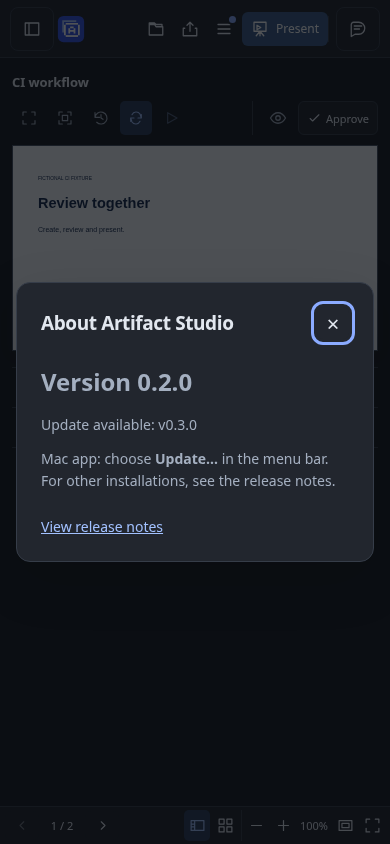
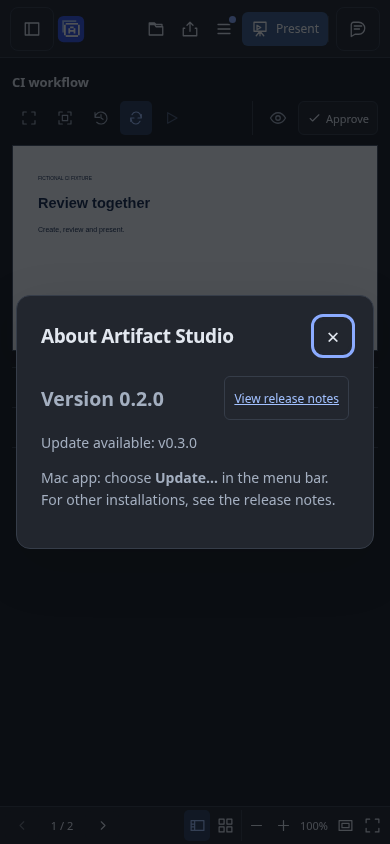
fix(ui): keep update actions beside the installed version

Changed region(s): [[0.0308, 0.3081, 0.9538, 0.6777], [0.5846, 0.4621, 0.8615, 0.4929]]

diff --git a/macos/ArtifactStudio.swift b/macos/ArtifactStudio.swift
@@ -137,7 +137,6 @@ final class AppDelegate: NSObject, NSApplicationDelegate, NSMenuDelegate {
     private var navigationUpdated = Date.distantPast
     private var navigationEnabled = false
     private let status = NSMenuItem(title: "", action: nil, keyEquivalent: "")
-    private let versionItem = NSMenuItem(title: "", action: nil, keyEquivalent: "")
     private let startItem = NSMenuItem(title: "Start", action: #selector(start), keyEquivalent: "")
     private let stopItem = NSMenuItem(title: "Stop", action: #selector(stop), keyEquivalent: "")
     private let restartItem = NSMenuItem(title: "Restart", action: #selector(restart), keyEquivalent: "")
@@ -188,8 +187,9 @@ final class AppDelegate: NSObject, NSApplicationDelegate, NSMenuDelegate {
         backupItem.submenu = backupMenu
         status.isEnabled = false
         menu.addItem(status)
-        versionItem.isEnabled = false
-        menu.addItem(versionItem)
+        updateItem.target = self
+        updateItem.image = NSImage(systemSymbolName: "arrow.down.circle", accessibilityDescription: nil)
+        menu.addItem(updateItem)
         menu.addItem(.separator())
         add("Open Artifact Studio", symbol: "arrow.up.right.square", action: #selector(openWorkspace), key: "o")
         for (item, symbol) in [(startItem, "play.fill"), (stopItem, "stop.fill"), (restartItem, "arrow.clockwise")] {
@@ -197,9 +197,6 @@ final class AppDelegate: NSObject, NSApplicationDelegate, NSMenuDelegate {
             item.image = NSImage(systemSymbolName: symbol, accessibilityDescription: nil)
             menu.addItem(item)
         }
-        updateItem.target = self
-        updateItem.image = NSImage(systemSymbolName: "arrow.down.circle", accessibilityDescription: nil)
-        menu.addItem(updateItem)
         menu.addItem(.separator())
         let settings = NSMenuItem(title: "Settings", action: nil, keyEquivalent: "")
         settings.image = NSImage(systemSymbolName: "gearshape", accessibilityDescription: nil)
@@ -241,9 +238,6 @@ final class AppDelegate: NSObject, NSApplicationDelegate, NSMenuDelegate {
     private func updateMenu() {
         status.title = updating ? updateLabel : external ? "Running · started elsewhere" : state.rawValue
         status.toolTip = errorMessage.isEmpty ? workspaceURL.absoluteString : errorMessage
-        versionItem.title = "Version \(installedVersion)"
-        versionItem.toolTip = "Installed version: \(installedVersion)"
-        versionItem.image = newerVersion == nil ? nil : NSImage(systemSymbolName: "arrow.down.circle.fill", accessibilityDescription: "Update available")
         statusItem.button?.toolTip = "Artifact Studio · \(status.title)"
         statusItem.button?.setAccessibilityValue(status.title)
         statusItem.button?.image = menuBarImage(state: updating ? .starting : state)
@@ -258,7 +252,9 @@ final class AppDelegate: NSObject, NSApplicationDelegate, NSMenuDelegate {
         startItem.isHidden = hasServer
         stopItem.isHidden = !hasServer
         updateItem.isEnabled = !updating && state != .starting && state != .stopping
-        updateItem.title = updating ? updateLabel : newerVersion.map { "Update… (v\($0) available)" } ?? "Update…"
+        let updateAction = updating ? updateLabel : newerVersion.map { "Update… (v\($0) available)" } ?? "Update…"
+        updateItem.title = "Version \(installedVersion)    \(updateAction)"
+        updateItem.toolTip = "Installed version: \(installedVersion). \(updateAction)"
         updateItem.image = NSImage(systemSymbolName: newerVersion == nil ? "arrow.down.circle" : "arrow.down.circle.fill", accessibilityDescription: newerVersion == nil ? nil : "Update available")
         let login = SMAppService.mainApp.status
         loginItem.state = login == .enabled ? .on : login == .requiresApproval ? .mixed : .off

diff --git a/web/app-version.js b/web/app-version.js
@@ -5,7 +5,7 @@
   function start(){
     const entries=[...doc.querySelectorAll('[data-app-about]')];if(!entries.length)return;
     const dialog=doc.createElement('dialog');dialog.className='app-about';dialog.setAttribute('aria-labelledby','app-about-title');
-    dialog.innerHTML='<header><h2 id="app-about-title">About Artifact Studio</h2><button type="button" aria-label="Close">×</button></header><p class="app-about-version" data-installed-version>Version unavailable</p><p class="app-about-status" role="status" aria-live="polite">Checking for updates…</p><p data-update-help hidden>Mac app: choose <strong>Update…</strong> in the menu bar. For other installations, see the release notes.</p><a class="app-release-link" target="_blank" rel="noopener noreferrer" hidden>View release notes</a>';
+    dialog.innerHTML='<header><h2 id="app-about-title">About Artifact Studio</h2><button type="button" aria-label="Close">×</button></header><div class="app-version-row"><p class="app-about-version" data-installed-version>Version unavailable</p><a class="app-release-link" target="_blank" rel="noopener noreferrer" hidden>View release notes</a></div><p class="app-about-status" role="status" aria-live="polite">Checking for updates…</p><p data-update-help hidden>Mac app: choose <strong>Update…</strong> in the menu bar. For other installations, see the release notes.</p>';
     doc.body.append(dialog);
     const version=dialog.querySelector('[data-installed-version]'),status=dialog.querySelector('[role="status"]'),release=dialog.querySelector('a'),help=dialog.querySelector('[data-update-help]');
     const triggers=[doc.getElementById('workspace-menu-button'),doc.getElementById('hub-tools-button')].filter(Boolean);

diff --git a/web/app-version.css b/web/app-version.css
@@ -10,8 +10,11 @@ dialog.app-about::backdrop{background:#10182866}
 .app-about h2{margin:0;font-size:19px;line-height:1.4}
 .app-about header button{font-size:22px;line-height:1;padding:5px 9px;min-width:32px;border:0;background:transparent;color:inherit}
 .app-about p{margin:12px 0;line-height:1.6;font-size:14px}
-.app-about .app-about-version{font-size:24px;font-weight:600}
+.app-version-row{display:flex;align-items:center;justify-content:space-between;gap:12px}
+.app-about .app-about-version{margin:0;font-size:clamp(16px,5vw,24px);font-weight:600;white-space:nowrap}
 .app-about .app-about-status{color:var(--hub-muted,var(--subtle,#5f6b7a))}
-.app-about a{display:inline-block;margin-top:12px;color:var(--hub-blue,var(--link,#315fce));font-size:14px}
+.app-about a{display:inline-flex;align-items:center;justify-content:center;padding:7px 9px;border:1px solid var(--hub-line,var(--line,#d8deea));border-radius:6px;color:var(--hub-blue,var(--link,#315fce));font-size:12px;white-space:nowrap;flex-shrink:0}
+@media(max-width:360px){dialog.app-about{padding:18px}.app-version-row{gap:8px}.app-about a{padding:7px 8px;font-size:11px}}
 .app-about [hidden]{display:none!important}
+@media(max-width:600px){.app-about .app-release-link{min-height:44px}}
 .app-version-sr{position:absolute;width:1px;height:1px;padding:0;margin:-1px;overflow:hidden;clip-path:inset(50%);white-space:nowrap;border:0}

diff --git a/tests/integration/test_app_version.py b/tests/integration/test_app_version.py
@@ -23,6 +23,7 @@ pytestmark = [
         ("hub", "light", 1280, 800),
         ("hub", "dark", 1280, 800),
         ("hub", "dark", 390, 844),
+        ("hub", "light", 320, 700),
         ("editor", "light", 1280, 800),
         ("editor", "dark", 390, 844),
     ],
@@ -62,6 +63,21 @@ def test_installed_version_and_update_menu(
     expect(dialog.get_by_role("link", name="View release notes")).to_have_attribute(
         "href", "https://github.com/kaiketsu-labs/artifact-studio/releases/tag/v9.0.0"
     )
+    version_bounds = dialog.locator("[data-installed-version]").bounding_box()
+    update_bounds = dialog.get_by_role("link", name="View release notes").bounding_box()
+    assert version_bounds and update_bounds
+    assert (
+        abs(
+            version_bounds["y"]
+            + version_bounds["height"] / 2
+            - update_bounds["y"]
+            - update_bounds["height"] / 2
+        )
+        <= 2
+    )
+    assert version_bounds["x"] + version_bounds["width"] <= update_bounds["x"]
+    if width <= 600:
+        assert update_bounds["height"] >= 44
     assert page.evaluate("document.documentElement.scrollWidth <= innerWidth")
     page.screenshot(path=str(artifacts / f"version-{surface}-{theme}-{width}.png"))
     page.keyboard.press("Escape")

diff --git a/docs/MACOS.md b/docs/MACOS.md
@@ -33,8 +33,8 @@ Closing a browser tab does not stop the server. Stopping or restarting the serve
 
 ## Existing workspaces and updates
 
-The Mac menu always shows the installed app's **Version**, including while the
-server is stopped. A filled download-circle icon and the available version appear
+The Mac menu keeps the installed app's **Version** and **Update…** action on one
+row, including while the server is stopped. A filled download-circle icon and the available version appear
 when a newer stable release is found. In the web library or slide editor, choose
 **Menu → About Artifact Studio** for the running app version and release notes;
 a small blue dot on Menu indicates an available update. The menu-bar controller
